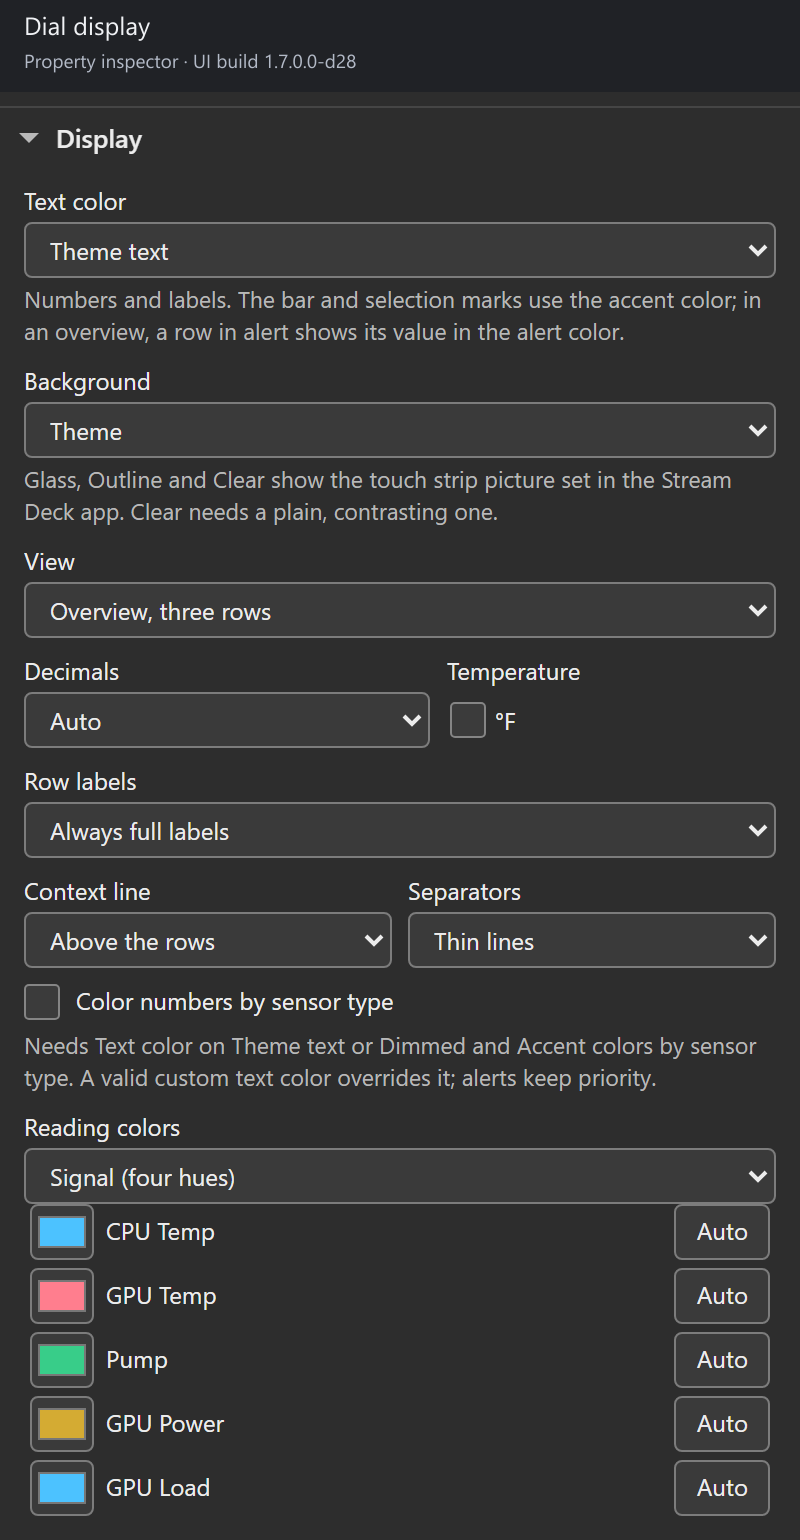
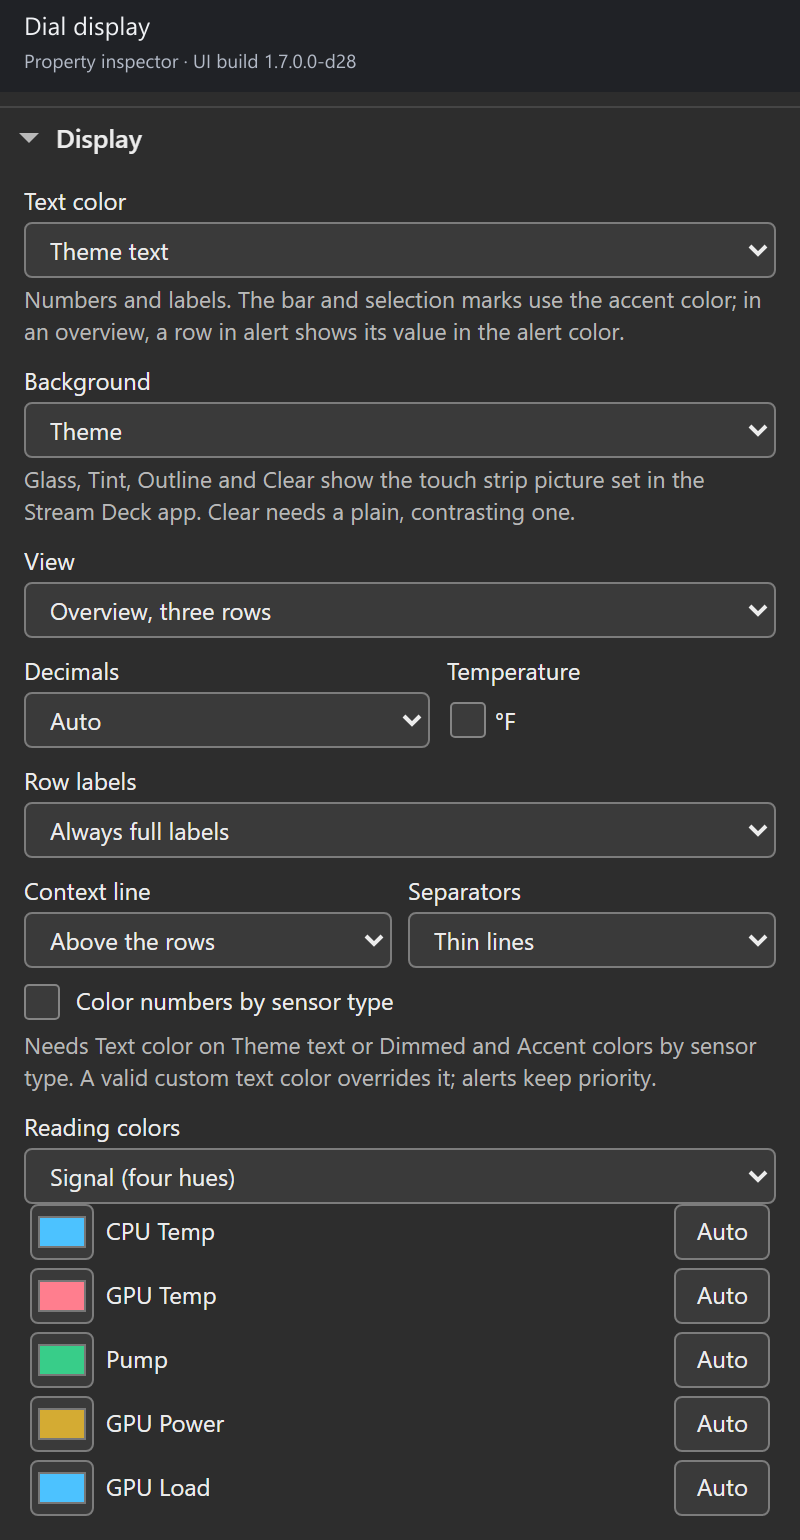
docs(dial): the dial panel recaptured with the Background field, and its alt text says so

Changed region(s): [[0.0312, 0.3117, 0.7188, 0.3429], [0.75, 0.3117, 0.9062, 0.3429]]

diff --git a/docs/sensor-dial.md b/docs/sensor-dial.md
@@ -82,7 +82,7 @@ rows and the saved key for the selection, so a measurement with two saved
 colors can change color when rotation selects it. Keep one color per
 measurement to avoid that.
 
-![The Display section of the dial's settings panel: Text color on Theme text, View on Overview (three rows), Row labels on Always full labels, Color numbers by sensor type unticked, and Reading colors on Signal (four hues), with a color well and an Auto button for each reading: CPU Temp blue, GPU Temp pink, Pump green, GPU Power gold and GPU Load blue.]({{ '/assets/img/pi-dial-reading-colors-1.7.png' | relative_url }})
+![The Display section of the dial's settings panel: Text color on Theme text, Background on Theme with its help line, View on Overview (three rows), Row labels on Always full labels, Color numbers by sensor type unticked, and Reading colors on Signal (four hues), with a color well and an Auto button for each reading: CPU Temp blue, GPU Temp pink, Pump green, GPU Power gold and GPU Load blue.]({{ '/assets/img/pi-dial-reading-colors-1.7.png' | relative_url }})
 
 *An actual settings-panel capture at panel build 1.7.0.0-d28 (the marker in its title bar), served by the local test host with live HWiNFO Shared Memory readings.*
 

diff --git a/docs/whats-new-1.7.md b/docs/whats-new-1.7.md
@@ -155,7 +155,7 @@ color of every reading in the list.
 *Production dial renderer with fixed sample readings and generated histories.
 The layouts and values are identical on both sides; only number colors change.*
 
-![The dial's Display section: Text color on Theme text, View on Overview, three rows, Decimals, the °F box, Row labels, Context line and Separators, the Color numbers by sensor type box, and Reading colors on Signal with five readings, each with its color well and an Auto button.]({{ '/assets/img/pi-dial-reading-colors-1.7.png' | relative_url }})
+![The dial's Display section: Text color on Theme text, Background on Theme, View on Overview, three rows, Decimals, the °F box, Row labels, Context line and Separators, the Color numbers by sensor type box, and Reading colors on Signal with five readings, each with its color well and an Auto button.]({{ '/assets/img/pi-dial-reading-colors-1.7.png' | relative_url }})
 
 *Actual settings-panel capture using live HWiNFO readings in a mock Stream
 Deck host. This is not a photograph of the physical deck.*
